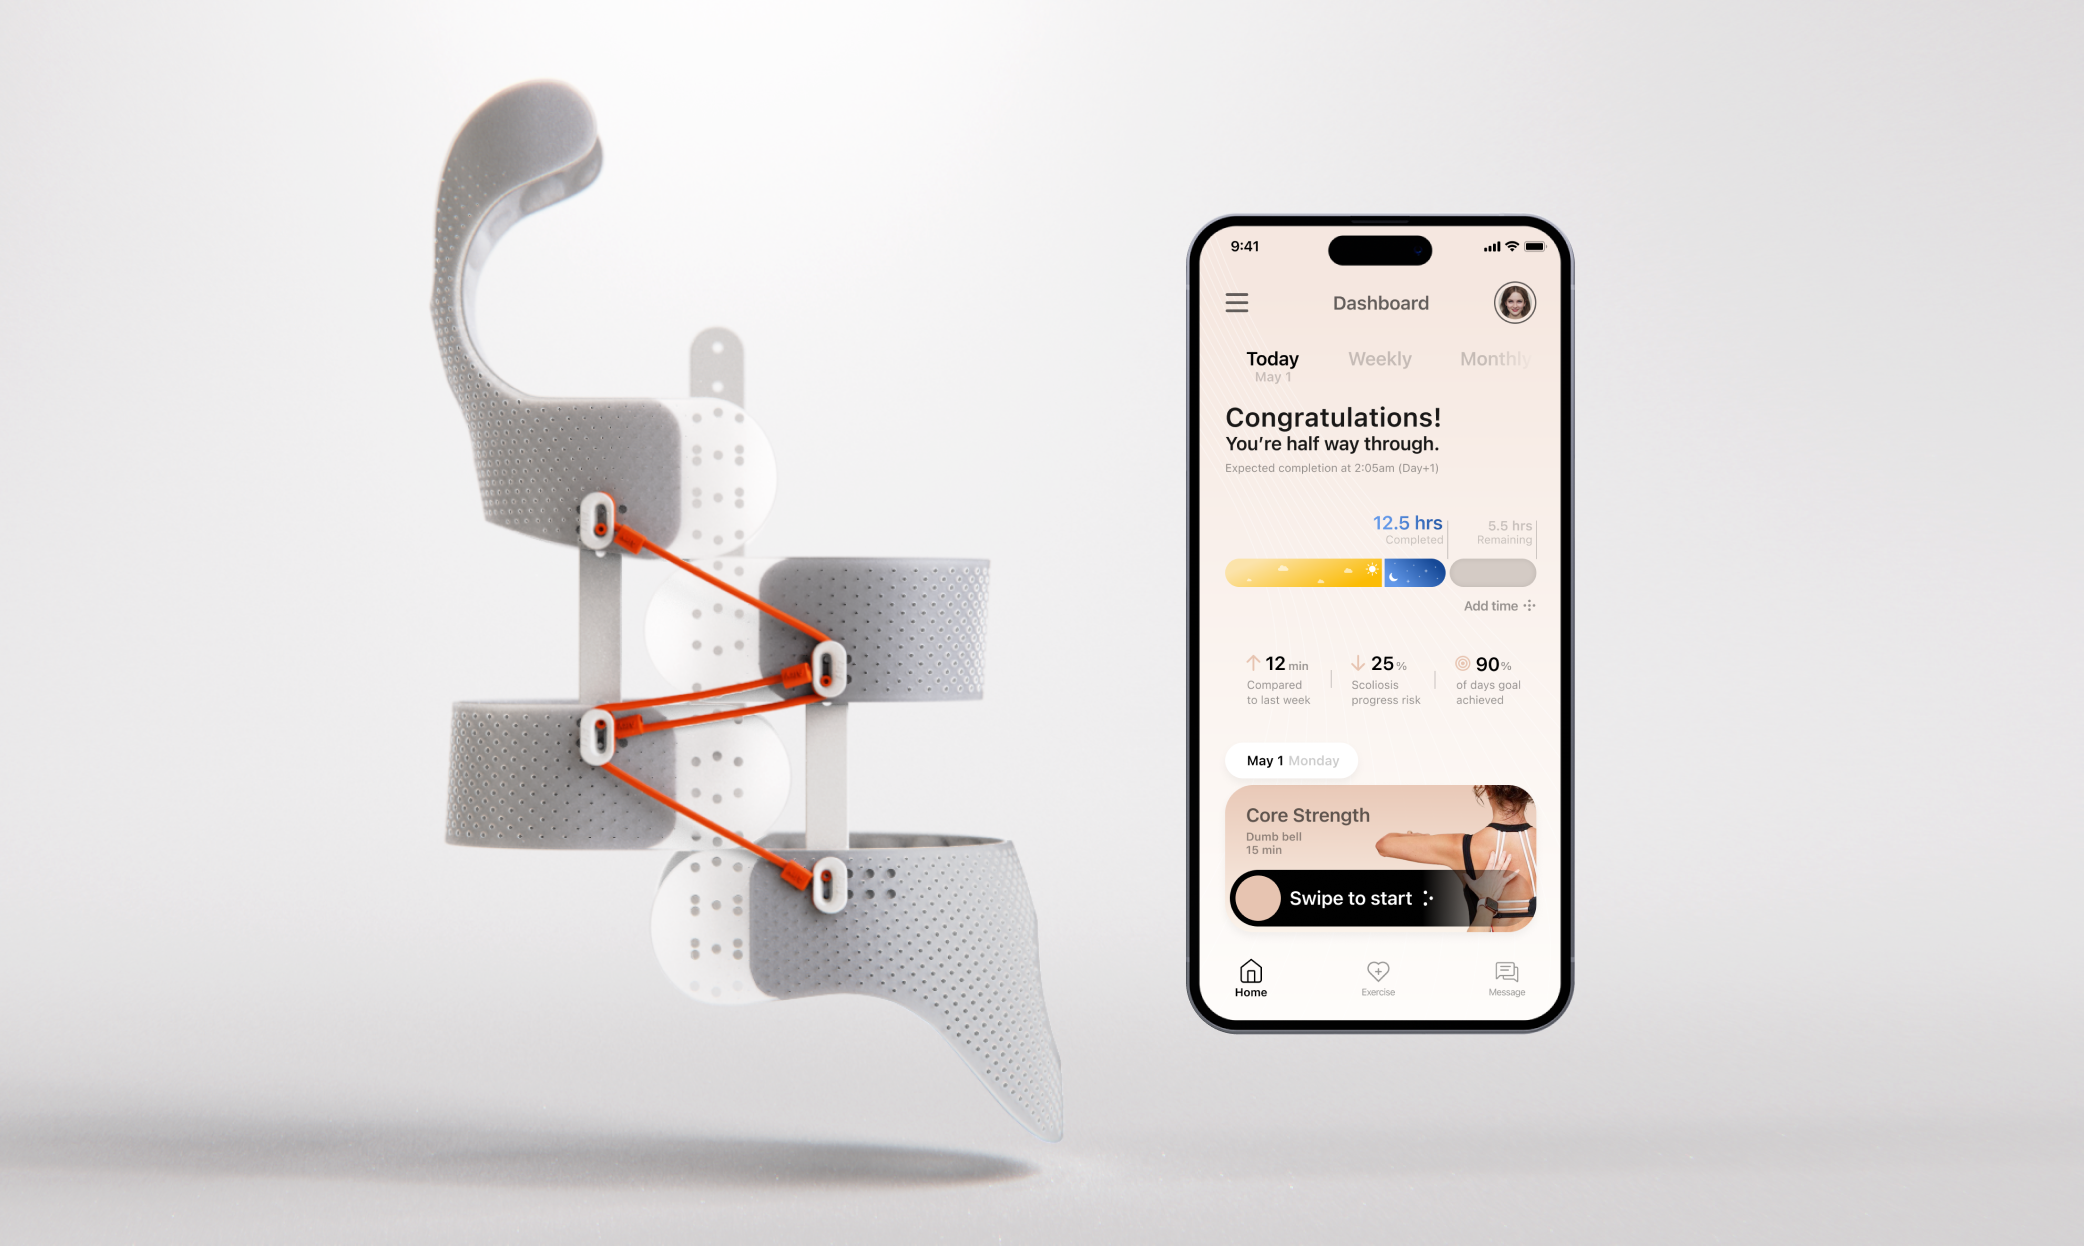
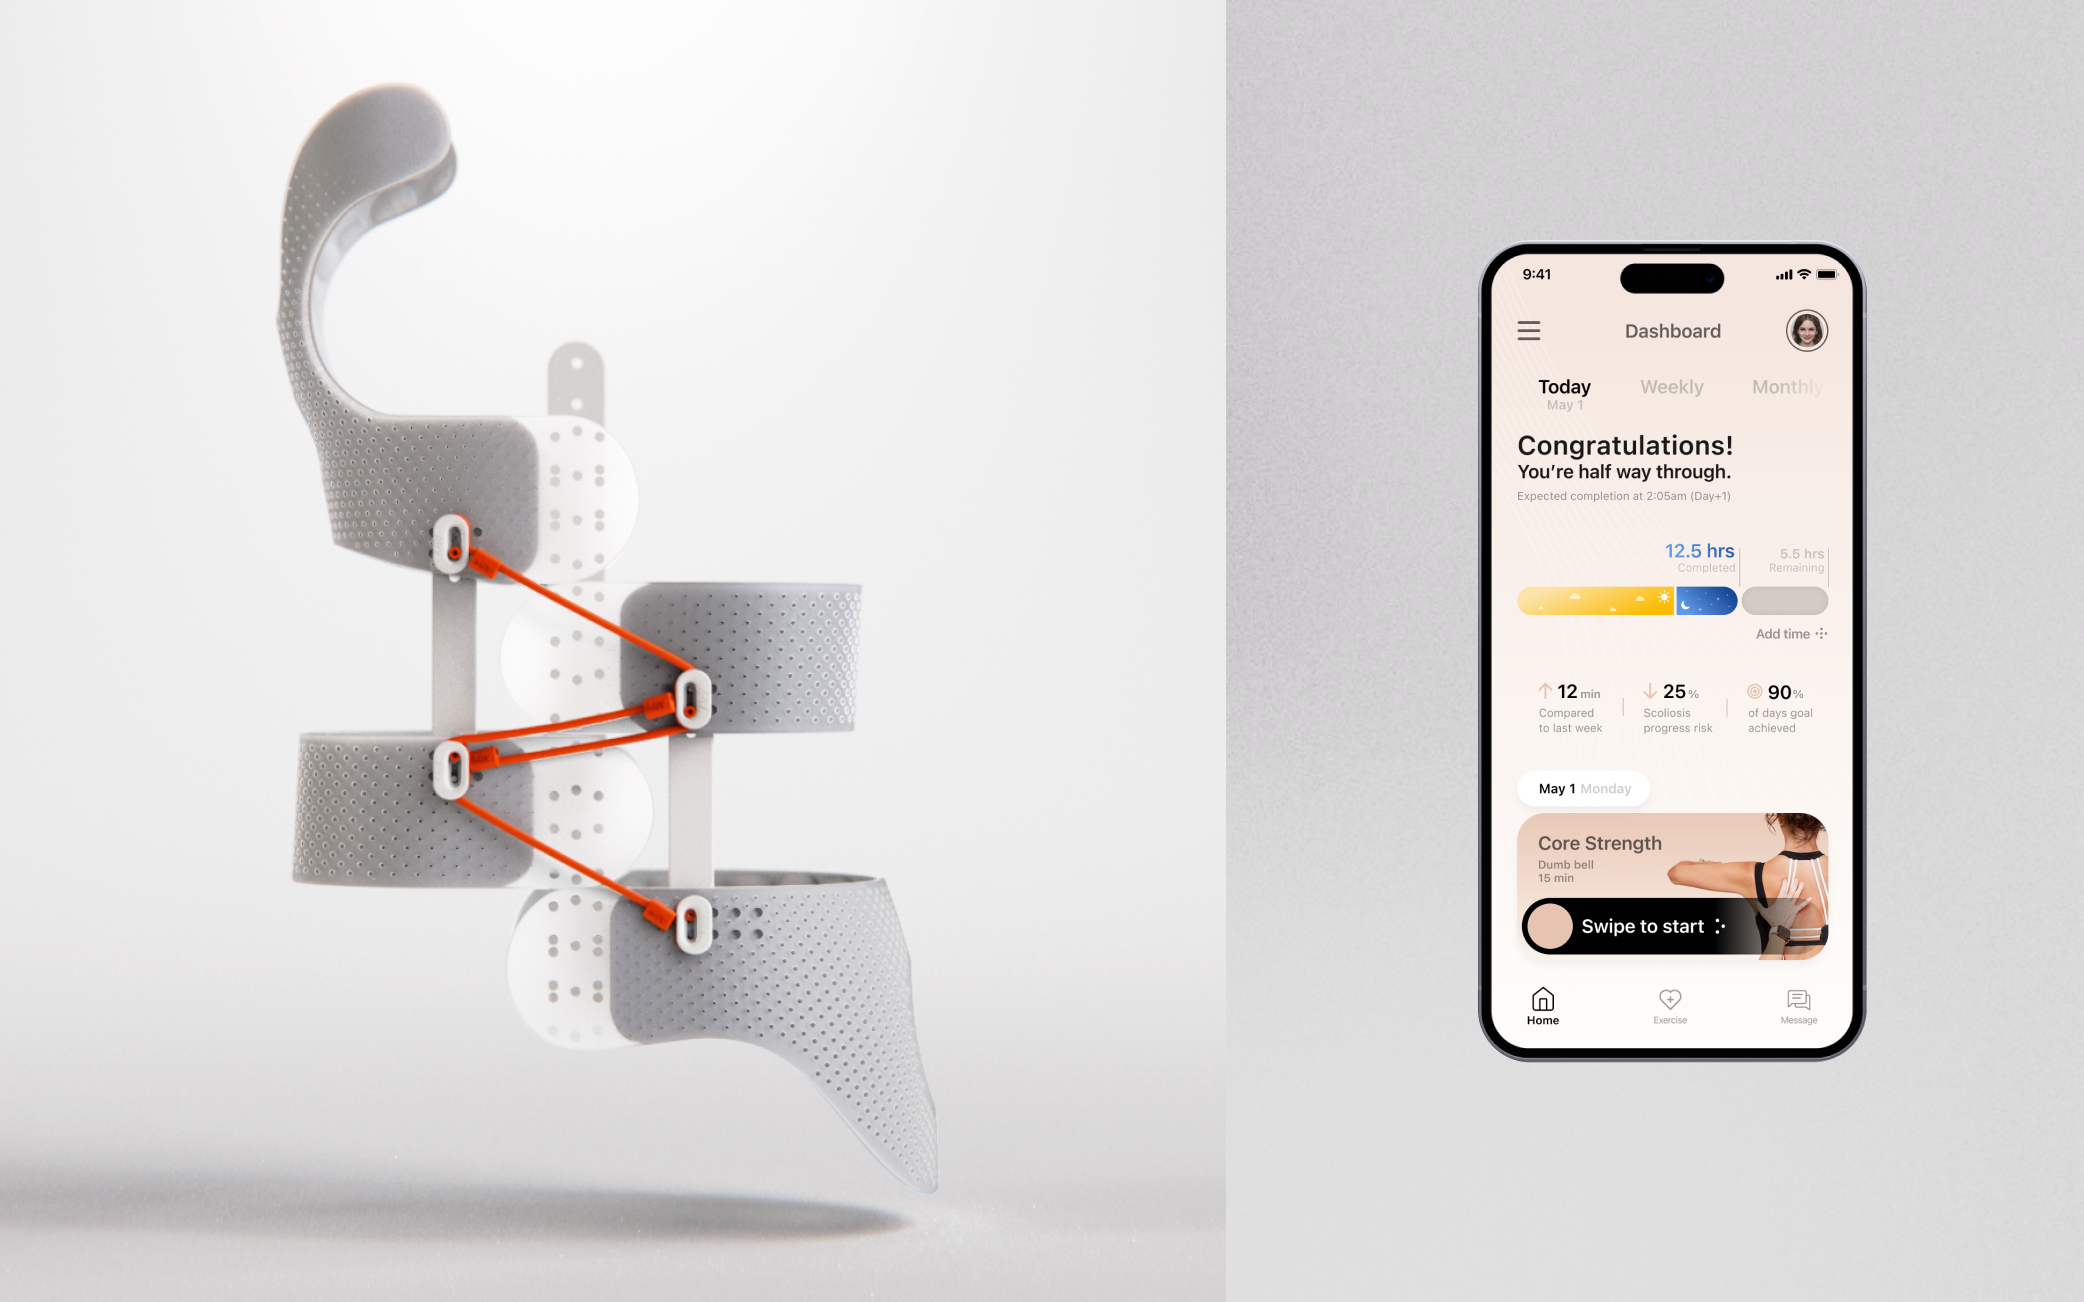
Update project cover assets for Asana and Airy.
Switch the Asana project card to an animated GIF and refresh the Airy cover image.

Changed region(s): [[0.5614, 0.0, 0.9045, 0.8539], [0.1248, 0.061, 0.499, 0.8539], [0.3743, 0.9149, 0.499, 0.9759]]

diff --git a/app/page.tsx b/app/page.tsx
@@ -365,7 +365,7 @@ export default function Home() {
             anchorId="asana-project-settings"
             title="Asana project settings"
             description="Revamp Asana’s project settings hub"
-            imageSrc="/asana-cover.png"
+            imageSrc="/asana-cover.gif"
             imageAlt="Asana project settings"
             imageSide="left"
             //imageHref="/asana"
